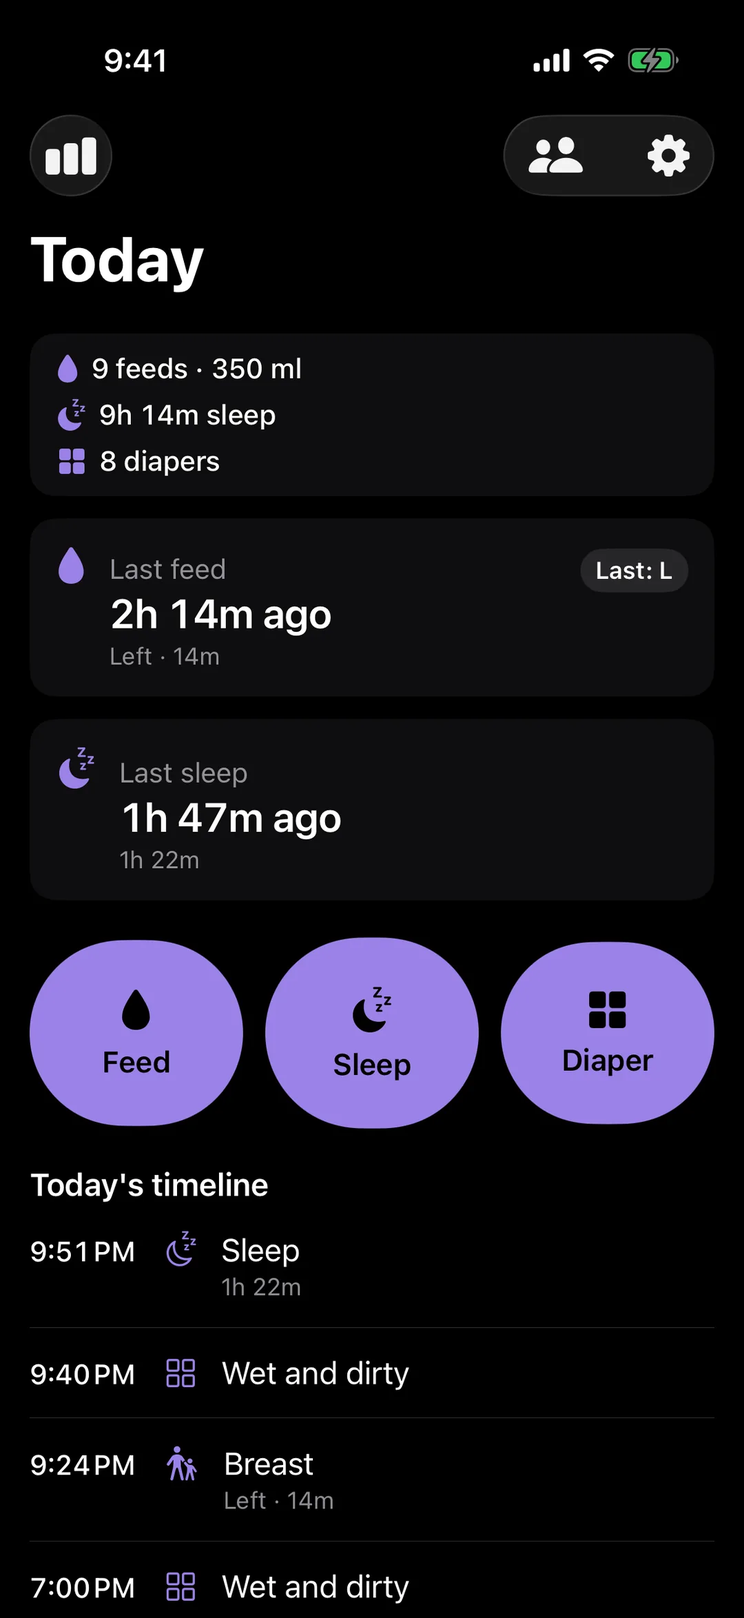
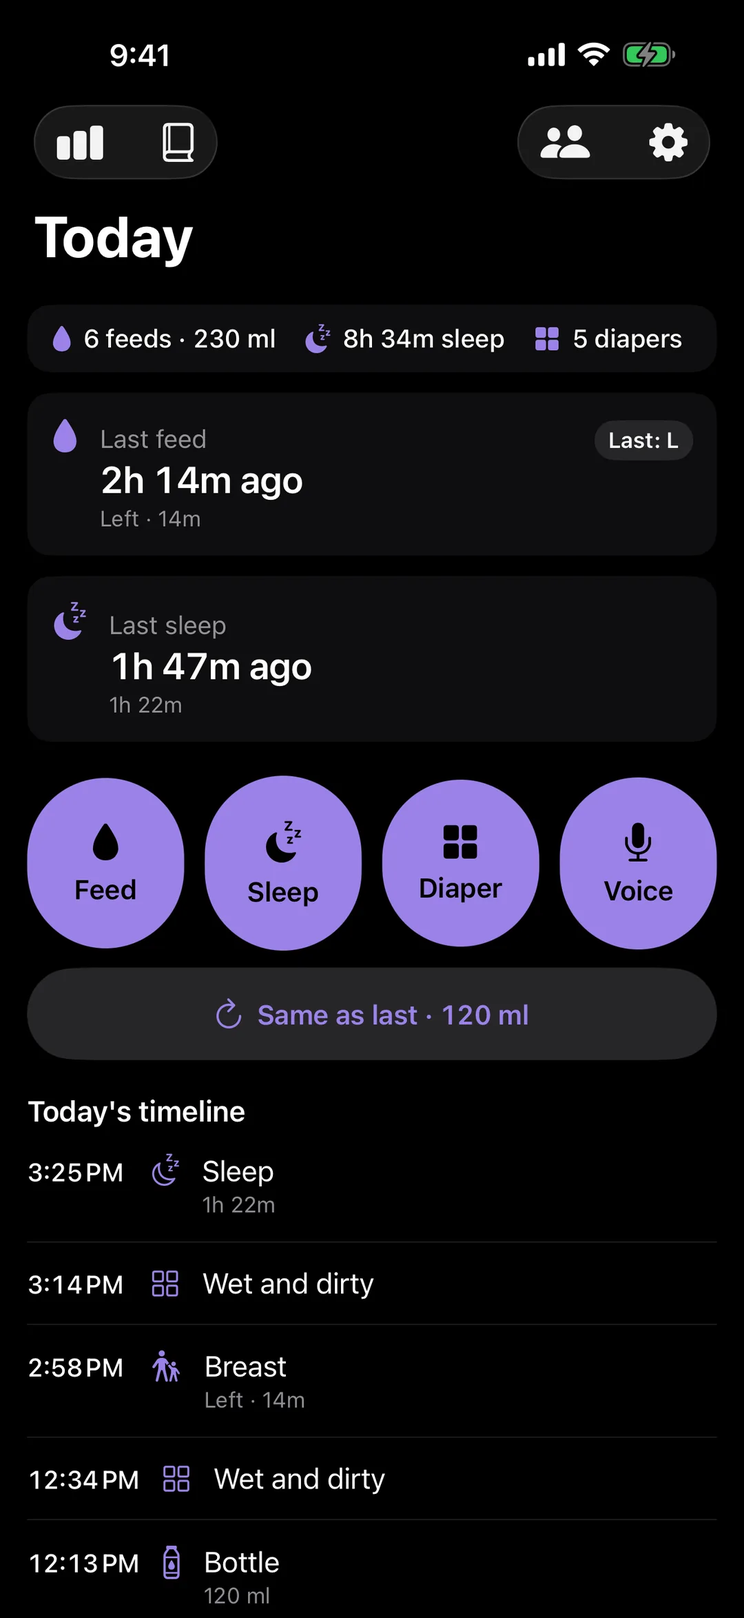
1.0.2: log without opening the app, voice, photos and diary on the home pages
New rows for widgets/Siri/Control Center, on-device voice (CSS illustration,
labelled), photos on entries and the Diary (D+N, lifetime counts, no streaks);
fresh home/log/diary captures from 1.0.2; Free card lists the new surfaces;
softwareVersion 1.0.2.

Claude-Session: https://claude.ai/code/session_01T6S6qebxYexNL2scS582CH

diff --git a/ko/index.html b/ko/index.html
@@ -43,7 +43,7 @@
 <section class="hero">
   <div>
     <h1>새벽 3시에도 두 번 누르면 끝나는 수유 기록</h1>
-    <p class="tagline">한 손으로 수유, 수면, 기저귀를 바로 남기고 지난 수유텀을 한눈에 확인해요. 배우자, 조부모, 돌봄 선생님은 링크 하나만 열면 같은 기록을 함께 봅니다.</p>
+    <p class="tagline">앱을 열지 않고 잠금화면에서, 목소리로, 또는 두 번의 탭으로 기록해요. 배우자, 조부모, 돌봄 선생님은 링크 하나만 열면 같은 기록을 함께 봅니다.</p>
     <div class="actions">
       <a class="badge" href="https://apps.apple.com/kr/app/id6813064594"><img src="../assets/appstore-badge-ko-kr.svg" alt="App Store에서 Lullog 다운로드" width="169" height="52"></a>
       <p class="note">기록은 무료 · iPhone · iOS 17 이상</p>
@@ -52,39 +52,55 @@
       <li>오프라인 우선</li>
       <li>광고 없음</li>
       <li>회원가입 없음</li>
-      <li>잠금화면에서 정지</li>
-      <li>공동양육자는 링크 하나로</li>
+      <li>앱 안 열고 기록</li>
     </ul>
   </div>
   <div class="phone">
-    <img src="../assets/screens/ko/home.webp" srcset="../assets/screens/ko/home.webp 540w, ../assets/screens/ko/home@2x.webp 1080w" sizes="(max-width: 720px) 74vw, 272px" width="540" height="1174" fetchpriority="high" alt="밤 시간의 Lullog 오늘 화면. 수유 9회·350 ml, 수면 9시간 14분, 기저귀 8회 오늘 합계와 왼쪽으로 먹인 마지막 수유 2시간 14분 전, 마지막 수면 카드, 수유·수면·기저귀 큰 버튼, 오늘의 기록이 보입니다">
+    <img src="../assets/screens/ko/home.webp" srcset="../assets/screens/ko/home.webp 540w, ../assets/screens/ko/home@2x.webp 1080w" sizes="(max-width: 720px) 74vw, 272px" width="540" height="1173" fetchpriority="high" alt="밤 시간의 Lullog 오늘 화면. 수유 6회·230 ml, 수면 8시간 34분, 기저귀 5회 오늘 합계와 마지막: 왼쪽 표시가 붙은 마지막 수유 2시간 14분 전, 마지막 수면 카드, 수유·수면·기저귀·음성 큰 버튼, 지난번처럼 120 ml 버튼, 오늘의 기록이 보입니다">
   </div>
 </section>
 
 <div class="features" id="features">
   <section class="feature">
     <div>
-      <p class="kicker">기록</p>
-      <h2>깜빡 잊은 수유도 두 번이면 기록돼요</h2>
-      <p>수유 버튼을 누르고 모유, 분유, 유축 중 하나를 고른 뒤 저장하면 끝입니다. 아기를 재우느라 기록을 놓쳤다면 시간 휠을 돌릴 필요 없이 "10분 전", "20분 전", "30분 전"을 누르세요.</p>
-      <p class="dim">모유 수유는 좌우 타이머로, 분유는 ml로 남깁니다. 수면과 기저귀도 같은 방식이에요.</p>
-      <p class="dim">분유량은 5 ml 단위로 조절하거나 숫자를 눌러 바로 입력할 수 있어요. 저장하거나 타이머를 시작한 뒤 5초 동안은 실행 취소 버튼으로 되돌릴 수 있습니다.</p>
+      <p class="kicker">앱 안 열고 기록</p>
+      <h2>앱을 열지 않아도 기록돼요</h2>
+      <p>잠금화면과 홈 화면 위젯에서 버튼 한 번으로 기록해요. 수유 타이머 시작, 지난번과 같은 젖병, 기저귀, 수면 타이머 시작을 바로 누를 수 있습니다.</p>
+      <p>Siri에게 "Lullog에서 젖병 기록"이라고 말하거나 단축어를 동작 버튼에 지정할 수 있어요. iOS 18에서는 제어 센터에 Lullog 버튼을 추가할 수 있습니다.</p>
+      <p class="dim">이 버튼들과 Siri, 음성 기록은 최신 버전의 Lullog에서 무료로 쓸 수 있어요. 위젯과 라이브 액티비티는 마지막 수유와 수면 이후 지난 시간도 보여 줘요. Lullog는 지난 시간을 보여 줄 뿐, 다음 수유 시간을 예측하지 않습니다.</p>
     </div>
-    <div class="phone">
-      <img src="../assets/screens/ko/log.webp" srcset="../assets/screens/ko/log.webp 540w, ../assets/screens/ko/log@2x.webp 1080w" sizes="(max-width: 720px) 74vw, 272px" width="540" height="1173" loading="lazy" decoding="async" alt="수유 기록 화면. 모유·분유·유축 선택, 20분 전이 선택된 빠른 시간 선택, 수유량 120 ml">
+    <div class="phone small">
+      <img src="../assets/screens/ko/home.webp" srcset="../assets/screens/ko/home.webp 540w, ../assets/screens/ko/home@2x.webp 1080w" sizes="(max-width: 720px) 74vw, 272px" width="540" height="1173" loading="lazy" decoding="async" alt="수유·수면·기저귀·음성 버튼과 지난번처럼 120 ml 버튼, 오늘 합계 줄, 마지막: 왼쪽 표시가 붙은 마지막 수유 카드가 보이는 오늘 화면">
     </div>
   </section>
 
   <section class="feature">
     <div>
-      <p class="kicker">한눈에 확인</p>
-      <h2>앱을 열지 않아도 수유텀이 보여요</h2>
-      <p>잠금화면 라이브 액티비티와 홈 화면 위젯이 마지막 수유와 마지막 수면 이후 지난 시간을 보여 줍니다. 비몽사몽한 새벽에도 두 시간이 지났는지 세 시간이 지났는지 바로 알 수 있어요.</p>
-      <p>오늘 화면 맨 위에는 오늘의 수유 횟수와 ml, 수면 시간, 기저귀 횟수 합계가 한 줄로 보여요. 마지막 수유 카드에는 마지막으로 먹인 쪽이 표시되고, 다음 수유는 반대쪽이 미리 선택돼요.</p>
-      <p class="dim">Lullog는 지난 시간을 보여 줄 뿐, 다음 수유 시간을 예측하거나 아기에게 무엇이 필요한지 판단하지 않습니다.</p>
+      <p class="kicker">음성</p>
+      <h2>말로 기록해요</h2>
+      <p>마이크를 누르고 "젖병 120"이나 "소변"이라고 말하면 기록이 저장되고 실행 취소 버튼이 나타나요.</p>
+      <p class="dim">음성은 iPhone 안에서만 인식되며 밖으로 나가지 않습니다. 한국어, 영어, 일본어, 중국어, 스페인어, 독일어, 프랑스어, 포르투갈어, 이탈리아어를 지원하고, 기기 내 인식을 쓸 수 없는 환경에서는 마이크 버튼이 보이지 않아요.</p>
     </div>
-    <div class="phone small">
-      <img src="../assets/screens/ko/home.webp" srcset="../assets/screens/ko/home.webp 540w, ../assets/screens/ko/home@2x.webp 1080w" sizes="(max-width: 720px) 66vw, 224px" width="540" height="1174" loading="lazy" decoding="async" alt="맨 위 오늘 합계 줄과 마지막: 왼쪽 표시가 붙은 마지막 수유 2시간 14분 전 카드가 보이는 오늘 화면">
+    <figure class="voice-demo" aria-label="음성 기록을 표현한 그림">
+      <div class="voice-card" aria-hidden="true">
+        <span class="voice-mic"></span>
+        <span class="voice-said">&ldquo;젖병 120&rdquo;</span>
+        <span class="voice-result">저장했어요 · 실행 취소</span>
+      </div>
+      <figcaption>설명용 그림이며 실제 화면이 아닙니다</figcaption>
+    </figure>
+  </section>
+
+  <section class="feature">
+    <div>
+      <p class="kicker">기록</p>
+      <h2>깜빡 잊은 수유도 두 번이면 기록돼요</h2>
+      <p>수유 버튼을 누르고 모유, 젖병, 유축 중 하나를 고른 뒤 저장하면 끝입니다. 기록을 놓쳤다면 시간 휠 대신 "10분 전", "20분 전", "30분 전"을 누르세요.</p>
+      <p>지난번과 같은 양이라면 오늘 화면의 "지난번처럼 · 120 ml"를 한 번만 누르면 돼요.</p>
+      <p class="dim">수유와 기저귀 기록에 사진을 붙일 수 있어요. 사진은 이 iPhone에만 보관되고 동기화되거나 공유되지 않습니다. 저장한 뒤 5초 동안은 실행 취소로 되돌릴 수 있어요.</p>
+    </div>
+    <div class="phone">
+      <img src="../assets/screens/ko/log.webp" srcset="../assets/screens/ko/log.webp 540w, ../assets/screens/ko/log@2x.webp 1080w" sizes="(max-width: 720px) 74vw, 272px" width="540" height="1173" loading="lazy" decoding="async" alt="수유 기록 화면. 모유·젖병·유축 선택, 20분 전이 선택된 빠른 시간 선택, 수유량 120 ml, 메모 칸과 사진 선택 칸">
     </div>
   </section>
 
@@ -92,8 +108,8 @@
     <div>
       <p class="kicker">잠금화면</p>
       <h2>잠금을 풀지 않고 타이머를 멈춰요</h2>
-      <p>수면이나 모유 수유 타이머가 돌아가는 동안 잠금화면 라이브 액티비티에 타이머와 정지 버튼이 보입니다. 정지를 누르면 기록이 저장돼요. Face ID나 암호를 입력할 필요도, 아기를 내려놓을 필요도 없습니다.</p>
-      <p class="dim">잠금화면 타이머는 다른 기록 기능처럼 무료이고, 최신 버전의 Lullog에 들어 있어요.</p>
+      <p>수면이나 모유 수유 타이머가 돌아가는 동안 잠금화면 라이브 액티비티에 타이머와 정지 버튼이 보입니다. 정지를 누르면 기록이 저장돼요. Face ID나 암호도, 아기를 내려놓을 필요도 없습니다.</p>
+      <p class="dim">잠금화면 타이머는 다른 기록 기능처럼 무료예요.</p>
     </div>
     <figure class="lock-demo" aria-label="잠금화면 타이머를 표현한 그림">
       <div class="lock-card" aria-hidden="true">
@@ -110,7 +126,7 @@
       <p class="kicker">공유</p>
       <h2>돌봐 주는 사람 모두에게 링크 하나</h2>
       <p>배우자, 조부모, 돌봄 선생님에게 링크를 보내세요. 받은 사람은 아무 브라우저에서 열어 기록을 보고, 허용하면 직접 기록도 남깁니다. 앱 설치도 회원가입도 필요 없고, 인원당 요금도 없어요.</p>
-      <p>사람마다 따로 링크를 만들고 "보기와 기록 가능" 또는 "보기만 가능"으로 권한을 정할 수 있습니다. 링크를 해지하면 그 링크는 바로 쓸 수 없게 돼요.</p>
+      <p>사람마다 따로 링크를 만들고 "보기와 기록 가능" 또는 "보기만 가능"으로 정할 수 있습니다. 링크를 해지하면 바로 쓸 수 없게 돼요.</p>
       <p class="dim">공유는 기본으로 꺼져 있고, 직접 "동기화 연결"을 눌러야 켜집니다. 그 전까지 Lullog는 어떤 네트워크 요청도 보내지 않으며 기록은 iPhone 안에만 있습니다.</p>
     </div>
     <div class="phone">
@@ -120,9 +136,21 @@
 
   <section class="feature">
     <div>
+      <p class="kicker">일기</p>
+      <h2>하루하루 쌓인 기록을 일기처럼</h2>
+      <p>일기 화면은 날짜별 합계와 함께 붙인 사진을 모아 보여 줘요. 맨 위에는 태어난 지 며칠째인지 D+N으로, 지금까지의 기록 수와 사진 수가 표시됩니다.</p>
+      <p class="dim">연속 기록 같은 압박은 없어요. 일기는 무료입니다.</p>
+    </div>
+    <div class="phone">
+      <img src="../assets/screens/ko/diary.webp" srcset="../assets/screens/ko/diary.webp 540w, ../assets/screens/ko/diary@2x.webp 1080w" sizes="(max-width: 720px) 74vw, 272px" width="540" height="1173" loading="lazy" decoding="async" alt="일기 화면. D+42, 기록 150개·사진 8장 표시와 날짜별 합계, 사진 모음">
+    </div>
+  </section>
+
+  <section class="feature">
+    <div>
       <p class="kicker">Lullog Lifetime</p>
       <h2>최근 7일을 한 화면에</h2>
-      <p>하루 평균 수유량, 수유 횟수, 수면 시간, 기저귀 횟수를 막대 차트와 날짜별 목록으로 보여 줘요. 영유아 검진이나 가족과 이야기할 때 지난 일주일을 손쉽게 돌아볼 수 있습니다.</p>
+      <p>하루 평균 수유량, 수유 횟수, 수면 시간, 기저귀 횟수를 막대 차트와 날짜별 목록으로 보여 줘요. 영유아 검진이나 가족과 이야기할 때 지난 일주일을 돌아볼 수 있습니다.</p>
       <p class="dim">7일 요약, 일별 차트, CSV 내보내기는 1회 결제인 Lullog Lifetime에 포함돼요.</p>
     </div>
     <div class="phone">
@@ -154,6 +182,9 @@
         <li>홈 화면 위젯</li>
         <li>잠금화면 라이브 액티비티</li>
         <li>잠금화면 타이머·정지</li>
+        <li>위젯·Siri·제어 센터에서 기록</li>
+        <li>음성 기록(기기 내 인식)</li>
+        <li>사진과 일기</li>
         <li>공동양육자 링크 공유, 인원 제한 없음</li>
         <li>광고 없음</li>
       </ul>
@@ -213,7 +244,7 @@
     "name": "Lullog",
     "alternateName": "Lullog: 아기 수유 기록·육아일지",
     "operatingSystem": "iOS 17.0 이상",
-    "softwareVersion": "1.0.1",
+    "softwareVersion": "1.0.2",
     "applicationCategory": "HealthApplication",
     "inLanguage": "ko",
     "url": "https://richoh86.github.io/lullog-site/ko/",

diff --git a/index.html b/index.html
@@ -43,7 +43,7 @@
 <section class="hero">
   <div>
     <h1>The baby feeding log built for the 3 AM feed</h1>
-    <p class="tagline">Log a feed, a nap or a diaper with one hand and two taps. Your partner, a grandparent or a sitter opens one link in any browser and logs alongside you.</p>
+    <p class="tagline">Log from the lock screen, by voice, or in two taps, without opening the app. Your partner, a grandparent or a sitter opens one link in any browser and logs alongside you.</p>
     <div class="actions">
       <a class="badge" href="https://apps.apple.com/app/id6813064594"><img src="assets/appstore-badge-en-us.svg" alt="Download Lullog on the App Store" width="156" height="52"></a>
       <p class="note">Free to log · iPhone · iOS 17 or later</p>
@@ -52,39 +52,55 @@
       <li>Works offline</li>
       <li>No ads</li>
       <li>No account</li>
-      <li>Stop from the lock screen</li>
-      <li>One link for caregivers</li>
+      <li>Log without opening the app</li>
     </ul>
   </div>
   <div class="phone">
-    <img src="assets/screens/en/home.webp" srcset="assets/screens/en/home.webp 540w, assets/screens/en/home@2x.webp 1080w" sizes="(max-width: 720px) 74vw, 272px" width="540" height="1174" fetchpriority="high" alt="Lullog's Today screen at night: today's totals of 9 feeds, 350 ml, 9 h 14 min of sleep and 8 diapers, last feed 2 h 14 min ago on the left side, the last sleep, big Feed, Sleep and Diaper buttons, and today's timeline">
+    <img src="assets/screens/en/home.webp" srcset="assets/screens/en/home.webp 540w, assets/screens/en/home@2x.webp 1080w" sizes="(max-width: 720px) 74vw, 272px" width="540" height="1173" fetchpriority="high" alt="Lullog's Today screen at night: today's totals of 6 feeds, 230 ml, 8 h 34 min of sleep and 5 diapers, last feed 2 h 14 min ago with a Last: L badge, the last sleep, big Feed, Sleep, Diaper and Voice buttons, a Same as last 120 ml button and today's timeline">
   </div>
 </section>
 
 <div class="features" id="features">
   <section class="feature">
     <div>
-      <p class="kicker">Logging</p>
-      <h2>Two taps, even if you forgot to log it</h2>
-      <p>Tap Feed, choose breast, bottle or pump, and save. Fell asleep before you logged it? Pick "10 min ago", "20 min ago" or "30 min ago" instead of scrolling a time wheel.</p>
-      <p class="dim">Breast feeds keep a left and right side timer. Bottle feeds take an amount in ml. Sleep and diapers work the same way.</p>
-      <p class="dim">Bottle amounts move in 5 ml steps, or tap the number to type it. For five seconds after any save or timer start, an Undo button takes it back.</p>
+      <p class="kicker">Without opening the app</p>
+      <h2>Log without opening the app</h2>
+      <p>Interactive widgets on the lock screen and home screen have one-tap buttons: start a feed timer, log a bottle like last time, log a diaper, start a sleep timer.</p>
+      <p>Say "Log a bottle in Lullog" to Siri, or put the shortcut on the Action Button. On iOS 18 you can add Lullog buttons to Control Center.</p>
+      <p class="dim">These buttons, Siri and voice logging are free in the latest version of Lullog. Widgets and the Live Activity also count up from the last feed and the last sleep. Lullog shows the time that has passed; it does not predict the next feed.</p>
     </div>
-    <div class="phone">
-      <img src="assets/screens/en/log.webp" srcset="assets/screens/en/log.webp 540w, assets/screens/en/log@2x.webp 1080w" sizes="(max-width: 720px) 74vw, 272px" width="540" height="1173" loading="lazy" decoding="async" alt="The feed sheet with Breast, Bottle and Pump options, a quick time picker set to 20 minutes ago, and 120 ml entered">
+    <div class="phone small">
+      <img src="assets/screens/en/home.webp" srcset="assets/screens/en/home.webp 540w, assets/screens/en/home@2x.webp 1080w" sizes="(max-width: 720px) 74vw, 272px" width="540" height="1173" loading="lazy" decoding="async" alt="The Today screen with Feed, Sleep, Diaper and Voice buttons, a Same as last 120 ml button, the totals strip and a last feed card with a Last: L badge">
     </div>
   </section>
 
   <section class="feature">
     <div>
-      <p class="kicker">At a glance</p>
-      <h2>See how long since the last feed without opening the app</h2>
-      <p>A Live Activity on the lock screen and widgets on the home screen count up from the last feed and the last sleep. Half awake, you can tell in one look whether it has been two hours or three.</p>
-      <p>A strip at the top of the Today screen adds up today's feeds and ml, sleep and diapers. The last-feed card shows which breast side you used last, and the next feed is preselected to the other side.</p>
-      <p class="dim">Lullog shows the time that has passed. It does not predict the next feed or tell you what your baby needs.</p>
+      <p class="kicker">Voice</p>
+      <h2>Say it instead of typing it</h2>
+      <p>Tap the mic and say "bottle 120" or "wet diaper". Lullog saves the entry and shows an Undo button.</p>
+      <p class="dim">Speech is recognised on your iPhone only and nothing leaves the phone. Voice works in English, Korean, Japanese, Chinese, Spanish, German, French, Portuguese and Italian. Where on-device recognition is not available, the mic button is hidden.</p>
     </div>
-    <div class="phone small">
-      <img src="assets/screens/en/home.webp" srcset="assets/screens/en/home.webp 540w, assets/screens/en/home@2x.webp 1080w" sizes="(max-width: 720px) 66vw, 224px" width="540" height="1174" loading="lazy" decoding="async" alt="The Today screen with the totals strip at the top and a last feed card that reads 2 h 14 min ago with a Last: L badge">
+    <figure class="voice-demo" aria-label="Illustration of voice logging">
+      <div class="voice-card" aria-hidden="true">
+        <span class="voice-mic"></span>
+        <span class="voice-said">&ldquo;bottle 120&rdquo;</span>
+        <span class="voice-result">Saved · Undo</span>
+      </div>
+      <figcaption>Illustration, not a screenshot</figcaption>
+    </figure>
+  </section>
+
+  <section class="feature">
+    <div>
+      <p class="kicker">Logging</p>
+      <h2>Two taps, even if you forgot to log it</h2>
+      <p>Tap Feed, choose breast, bottle or pump, and save. Fell asleep before you logged it? Pick "10 min ago", "20 min ago" or "30 min ago" instead of scrolling a time wheel.</p>
+      <p>Same bottle again? "Same as last · 120 ml" on the Today screen logs it in one tap.</p>
+      <p class="dim">You can add a photo to a feed or diaper entry. Photos stay on this iPhone and are never synced or shared. For five seconds after any save, an Undo button takes it back.</p>
+    </div>
+    <div class="phone">
+      <img src="assets/screens/en/log.webp" srcset="assets/screens/en/log.webp 540w, assets/screens/en/log@2x.webp 1080w" sizes="(max-width: 720px) 74vw, 272px" width="540" height="1173" loading="lazy" decoding="async" alt="The feed sheet with Breast, Bottle and Pump options, a quick time picker set to 20 minutes ago, 120 ml entered, a note field and a Photo field">
     </div>
   </section>
 
@@ -93,7 +109,7 @@
       <p class="kicker">Lock screen</p>
       <h2>Stop the timer without unlocking your phone</h2>
       <p>When a sleep or breast-feed timer is running, it shows in the Live Activity on the lock screen with a Stop button. Tap Stop and the entry is saved, without Face ID or a passcode and without putting the baby down.</p>
-      <p class="dim">The lock screen timer is free, like all logging. It is in the latest version of Lullog.</p>
+      <p class="dim">The lock screen timer is free, like all logging.</p>
     </div>
     <figure class="lock-demo" aria-label="Illustration of the lock screen timer">
       <div class="lock-card" aria-hidden="true">
@@ -109,7 +125,7 @@
     <div>
       <p class="kicker">Sharing</p>
       <h2>One link for everyone who helps</h2>
-      <p>Send a link to your partner, a grandparent or a sitter. They open it in any browser to see the log and, if you allow it, add entries. They do not install an app or make an account, and there is no fee per person.</p>
+      <p>Send a link to your partner, a grandparent or a sitter. They open it in any browser to see the log and, if you allow it, add entries. No app, no account, no fee per person.</p>
       <p>Each person gets their own link, set to view and log or view only. Revoke a link any time and it stops working.</p>
       <p class="dim">Sharing is off until you tap Connect to sync. Until then Lullog makes no network requests and your log stays on your iPhone.</p>
     </div>
@@ -120,9 +136,21 @@
 
   <section class="feature">
     <div>
+      <p class="kicker">Diary</p>
+      <h2>Your log, day by day</h2>
+      <p>The Diary shows each day's totals with the photos you added, under a D+N count of days since birth and the number of entries and photos so far.</p>
+      <p class="dim">There are no streaks and nothing to keep up. The Diary is free.</p>
+    </div>
+    <div class="phone">
+      <img src="assets/screens/en/diary.webp" srcset="assets/screens/en/diary.webp 540w, assets/screens/en/diary@2x.webp 1080w" sizes="(max-width: 720px) 74vw, 272px" width="540" height="1173" loading="lazy" decoding="async" alt="The Diary with a D+42 header, 150 entries and 8 photos, and days listed with their totals and a grid of photos">
+    </div>
+  </section>
+
+  <section class="feature">
+    <div>
       <p class="kicker">Lullog Lifetime</p>
       <h2>The last 7 days on one screen</h2>
-      <p>Daily averages for feed amount, number of feeds, sleep hours and diapers, with a bar chart and a day-by-day list. It helps when someone asks "how has the baby been eating this week?"</p>
+      <p>Daily averages for feed amount, number of feeds, sleep hours and diapers, with a bar chart and a day-by-day list.</p>
       <p class="dim">The 7-day summary, daily charts and CSV export are part of Lullog Lifetime, a one-time purchase.</p>
     </div>
     <div class="phone">
@@ -154,6 +182,9 @@
         <li>Home screen widgets</li>
         <li>Lock screen Live Activity</li>
         <li>Lock screen timer with Stop</li>
+        <li>Widgets, Siri and Control Center logging</li>
+        <li>Voice logging (on-device)</li>
+        <li>Photos and Diary</li>
         <li>Link sharing with unlimited caregivers</li>
         <li>No ads</li>
       </ul>
@@ -210,7 +241,7 @@
       "applicationCategory": "HealthApplication",
       "applicationSubCategory": "Baby feeding, sleep and diaper log",
       "operatingSystem": "iOS 17.0 or later",
-      "softwareVersion": "1.0.1",
+      "softwareVersion": "1.0.2",
       "url": "https://richoh86.github.io/lullog-site/",
       "installUrl": "https://apps.apple.com/app/id6813064594",
       "downloadUrl": "https://apps.apple.com/app/id6813064594",
@@ -222,6 +253,9 @@
       "featureList": [
         "Feed, sleep and diaper logging",
         "Lock screen Live Activity and home screen widgets",
+        "Interactive widgets, Siri and Shortcuts, and Control Center buttons for logging without opening the app",
+        "On-device voice logging",
+        "Photos on entries, kept on the device, and a Diary",
         "Private share link that opens in any browser",
         "Works offline with no account",
         "7-day summary, daily charts, CSV export and app themes with Lullog Lifetime"
@@ -233,7 +267,7 @@
           "price": "0",
           "priceCurrency": "USD",
           "availability": "https://schema.org/InStock",
-          "description": "Free to use. Logging, widgets, the Live Activity and link sharing are free with no ads."
+          "description": "Free to use. Logging, widgets, Siri and Control Center logging, voice logging, photos, the Diary, the Live Activity and link sharing are free with no ads."
         },
         {
           "@type": "Offer",

diff --git a/assets/site.css b/assets/site.css
@@ -122,3 +122,19 @@ html[lang="ko"] body { word-break: keep-all; overflow-wrap: anywhere; }
 .lock-card .lock-stop { justify-self: end; padding: .4rem 1.1rem; border-radius: 999px;
   background: var(--accent); color: var(--card); font-weight: 700; font-size: .95rem; }
 .lock-demo figcaption { margin-top: .6rem; color: var(--dim); font-size: .8rem; }
+
+/* ---------- Voice logging schematic (1.0.2), added 2026-10-05 ---------- */
+.voice-demo { margin: 0 auto; width: min(320px, 100%); text-align: center; }
+.voice-card { display: grid; grid-template-columns: auto 1fr; grid-template-rows: auto auto; align-items: center;
+  gap: .7rem 1rem; text-align: left; padding: 1.1rem 1.25rem; border-radius: 1.6rem;
+  background: var(--card); border: 1px solid var(--line); box-sizing: border-box; }
+.voice-card .voice-mic { grid-row: 1; width: 3rem; height: 3rem; border-radius: 50%; background: var(--accent);
+  position: relative; }
+.voice-card .voice-mic::before { content: ""; position: absolute; left: 50%; top: .7rem; width: .7rem; height: 1.15rem;
+  margin-left: -.35rem; border-radius: .35rem; background: var(--card); }
+.voice-card .voice-mic::after { content: ""; position: absolute; left: 50%; bottom: .6rem; width: .2rem; height: .45rem;
+  margin-left: -.1rem; background: var(--card); }
+.voice-card .voice-said { font-size: 1.35rem; font-weight: 600; color: var(--ink); }
+.voice-card .voice-result { grid-column: 1 / -1; justify-self: start; padding: .35rem 1rem; border-radius: 999px;
+  border: 1px solid var(--line); background: var(--bg); color: var(--dim); font-size: .9rem; font-weight: 600; }
+.voice-demo figcaption { margin-top: .6rem; color: var(--dim); font-size: .8rem; }
